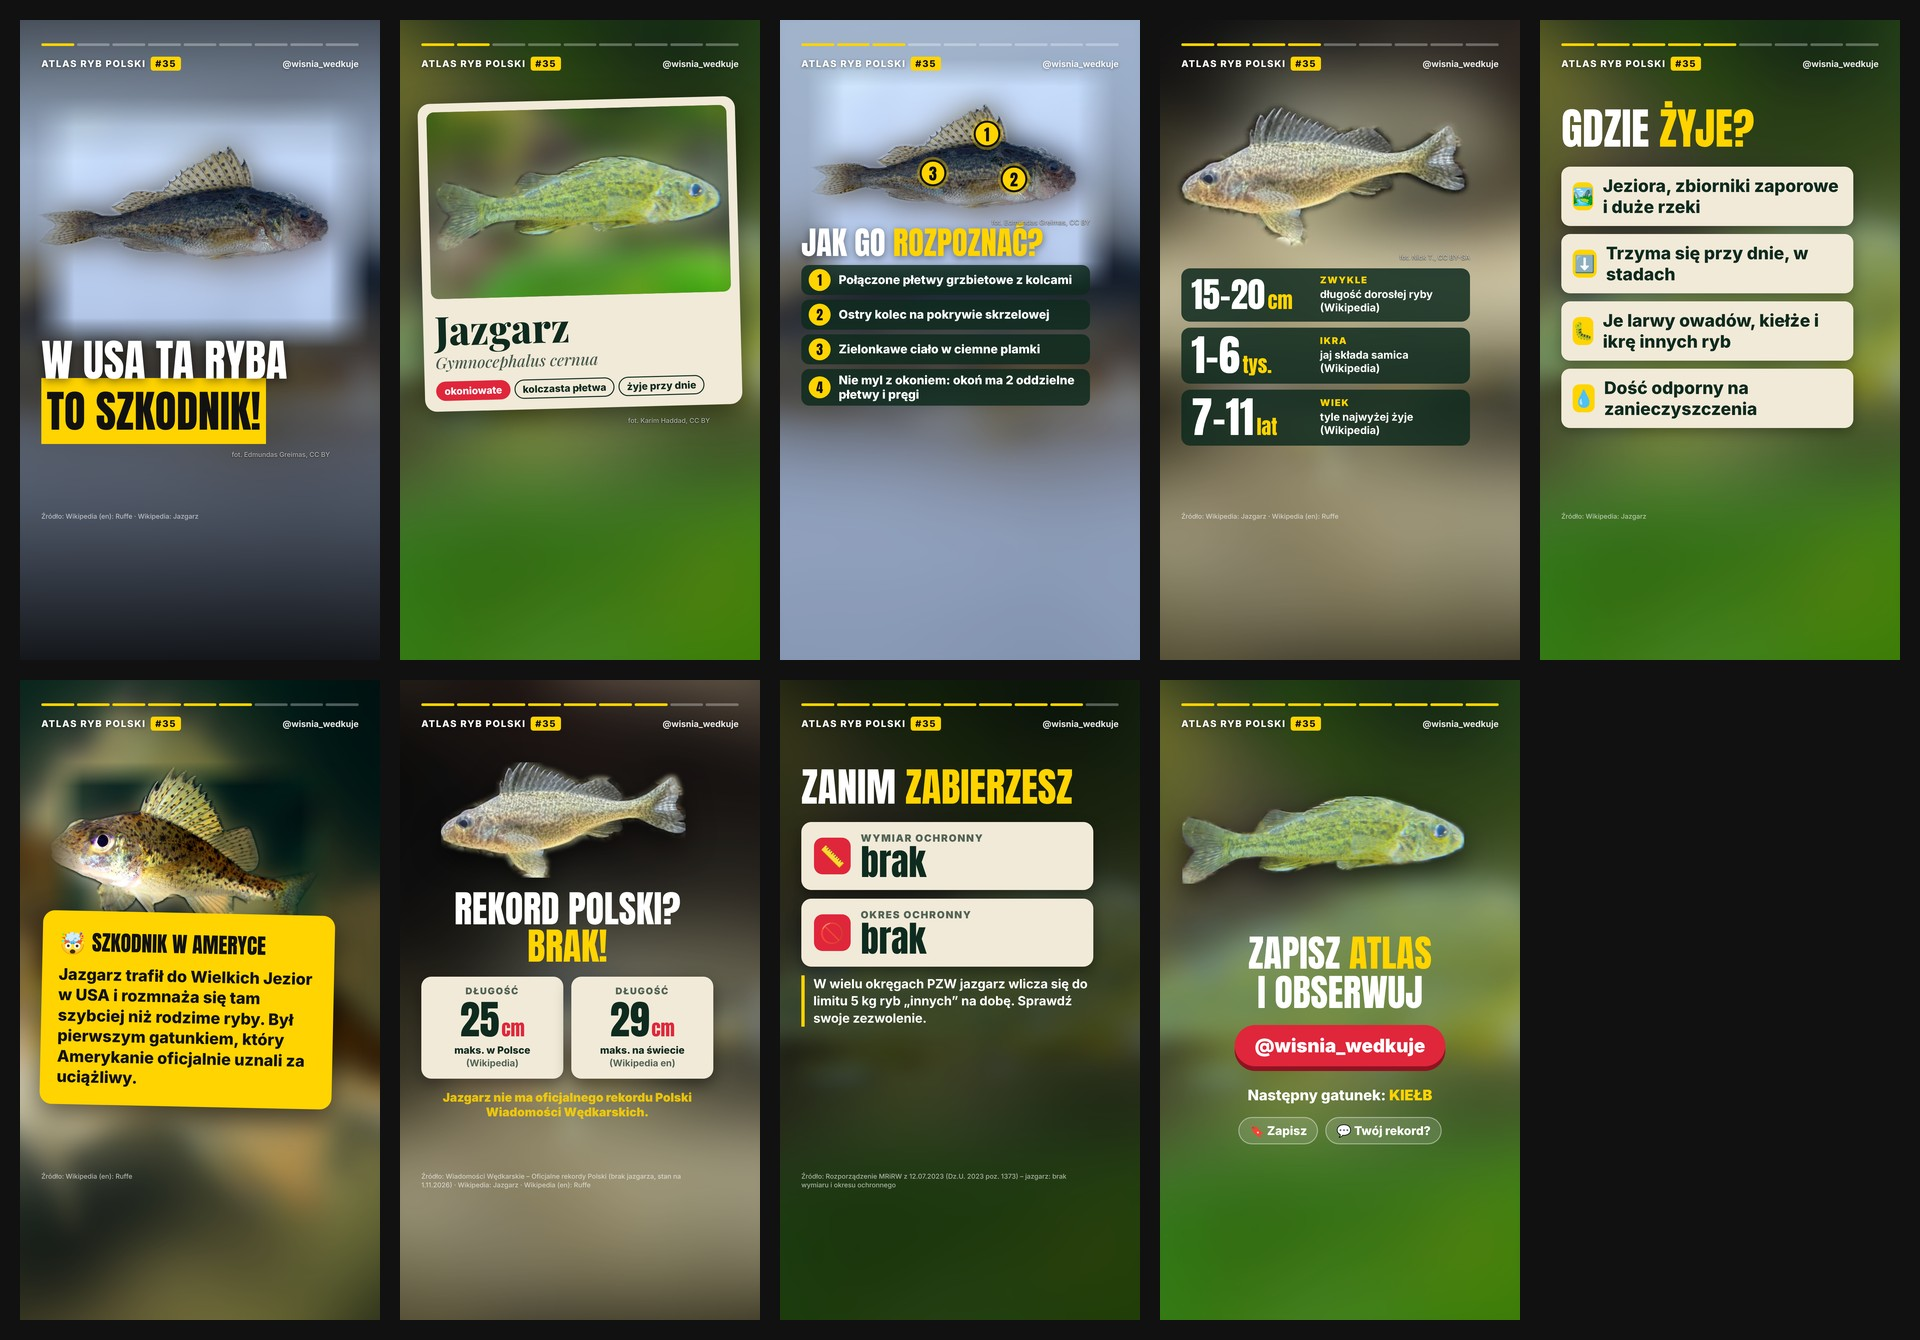
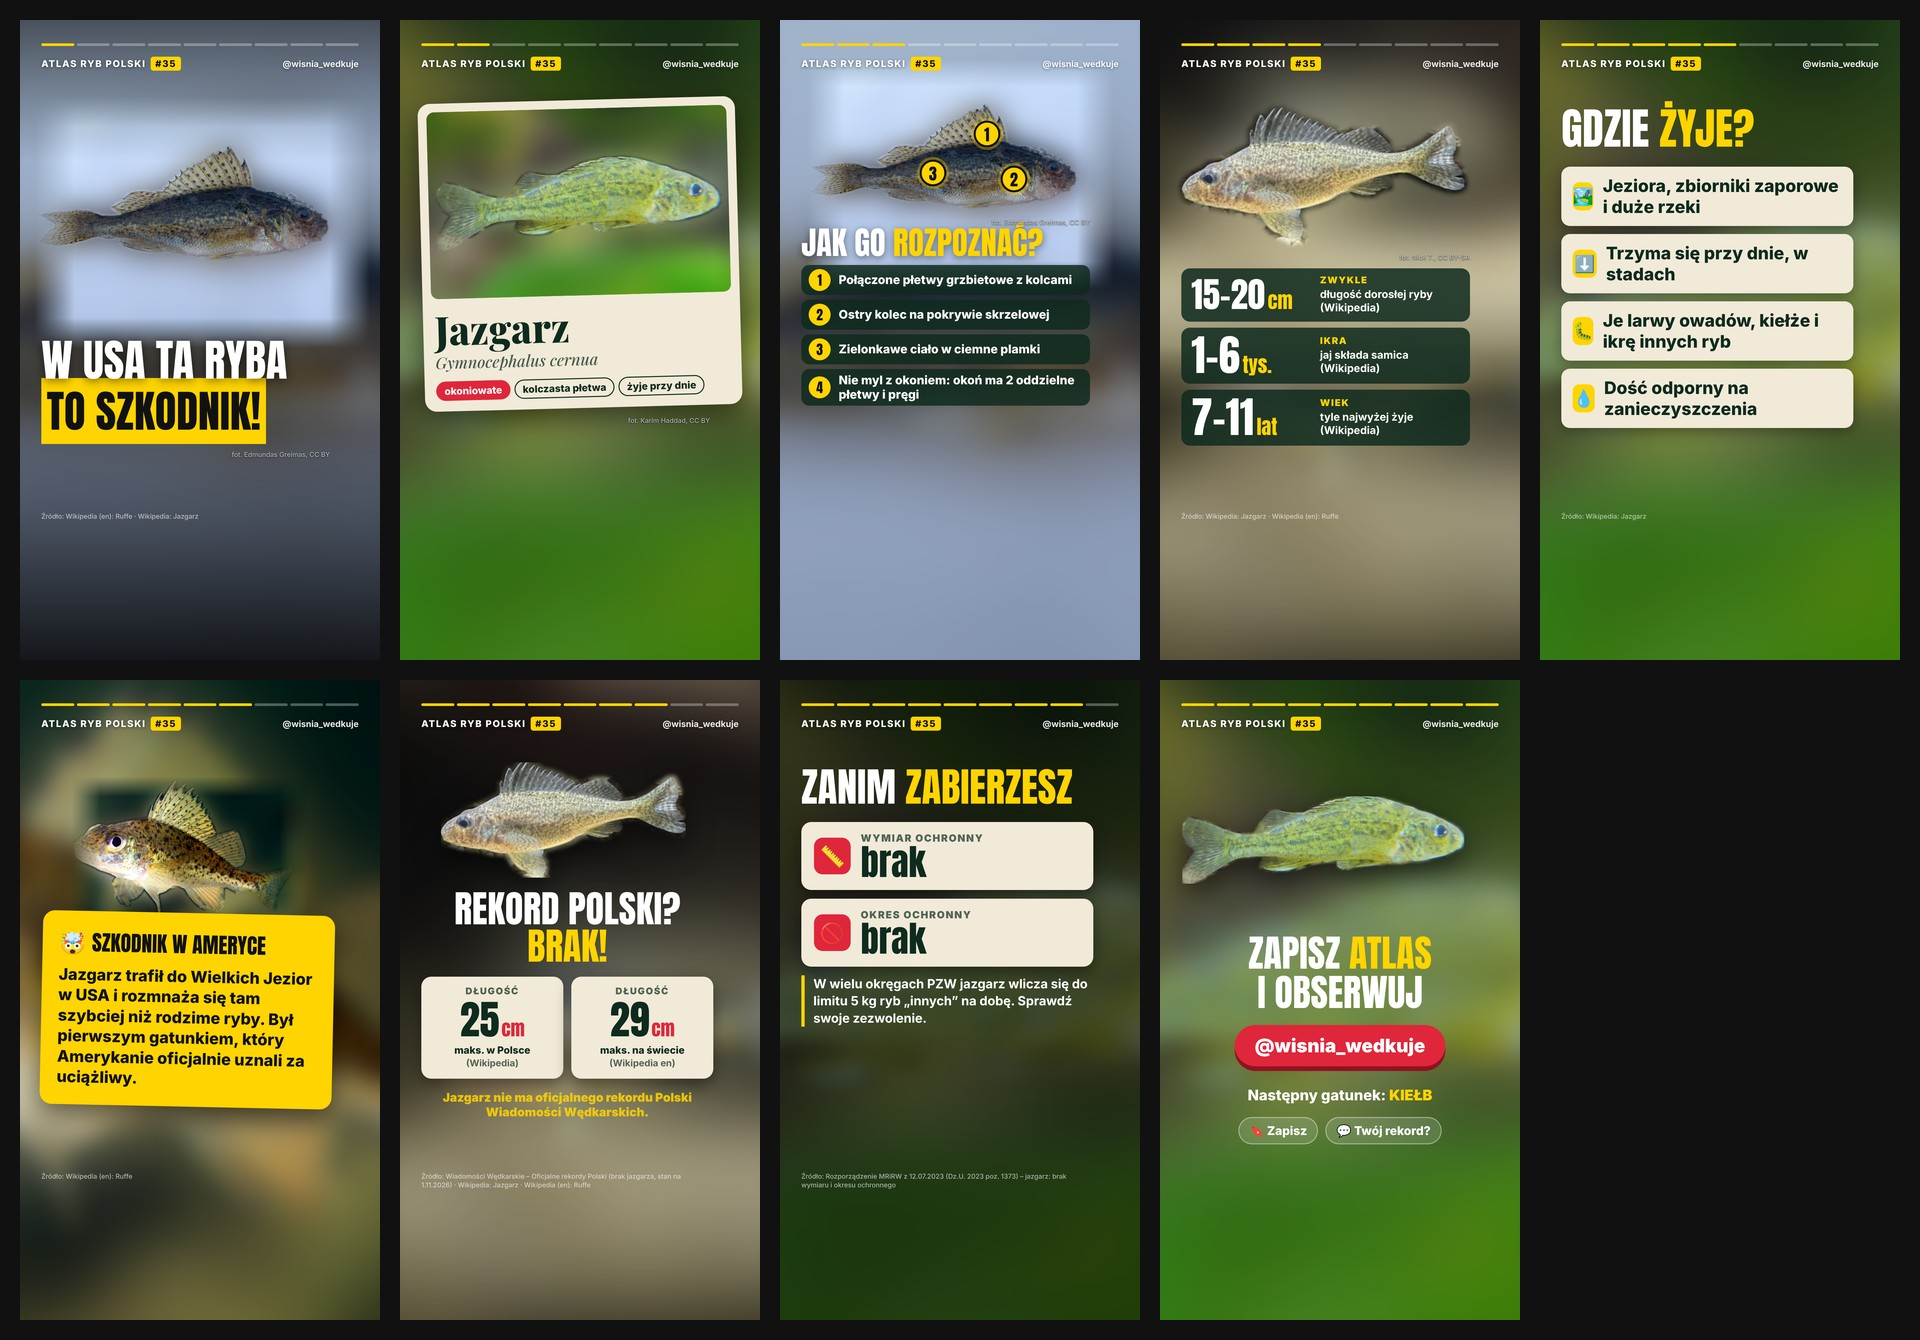
Atlas 35 Jazgarz: ryba w całości nad ramką ciekawostki (margines w danych zdjęcia)
Claude-Session: https://claude.ai/code/session_01YFDAx1LD8sTfHqEDUSbp2L

Changed region(s): [[0.0312, 0.5507, 0.1875, 0.7037]]

diff --git a/atlas/sceny.js b/atlas/sceny.js
@@ -24,7 +24,7 @@ window.zbudujSceny = function () {
   // punkty (współrzędne w px oryginału → numerowane kropki, z wejściem przy słowach `przy`), margines.
   function ryba(scena, o, opt = {}) {
     const cfg = G.zdjecia[scena], Z = ZD[cfg.nazwa], L = !!cfg.lustro;
-    const [x0, y0, x1, y1] = Z.bbox, bw = x1 - x0, bh = y1 - y0, m = opt.margines ?? 0.04;
+    const [x0, y0, x1, y1] = Z.bbox, bw = x1 - x0, bh = y1 - y0, m = cfg.margines ?? opt.margines ?? 0.04;
     const s = Math.min(o.w * (1 - 2 * m) / bw, o.h * (1 - 2 * m) / bh);
     const cx = o.x + o.w / 2, cy = o.y + o.h / 2;
     const bcx = L ? Z.w - (x0 + bw / 2) : x0 + bw / 2;
